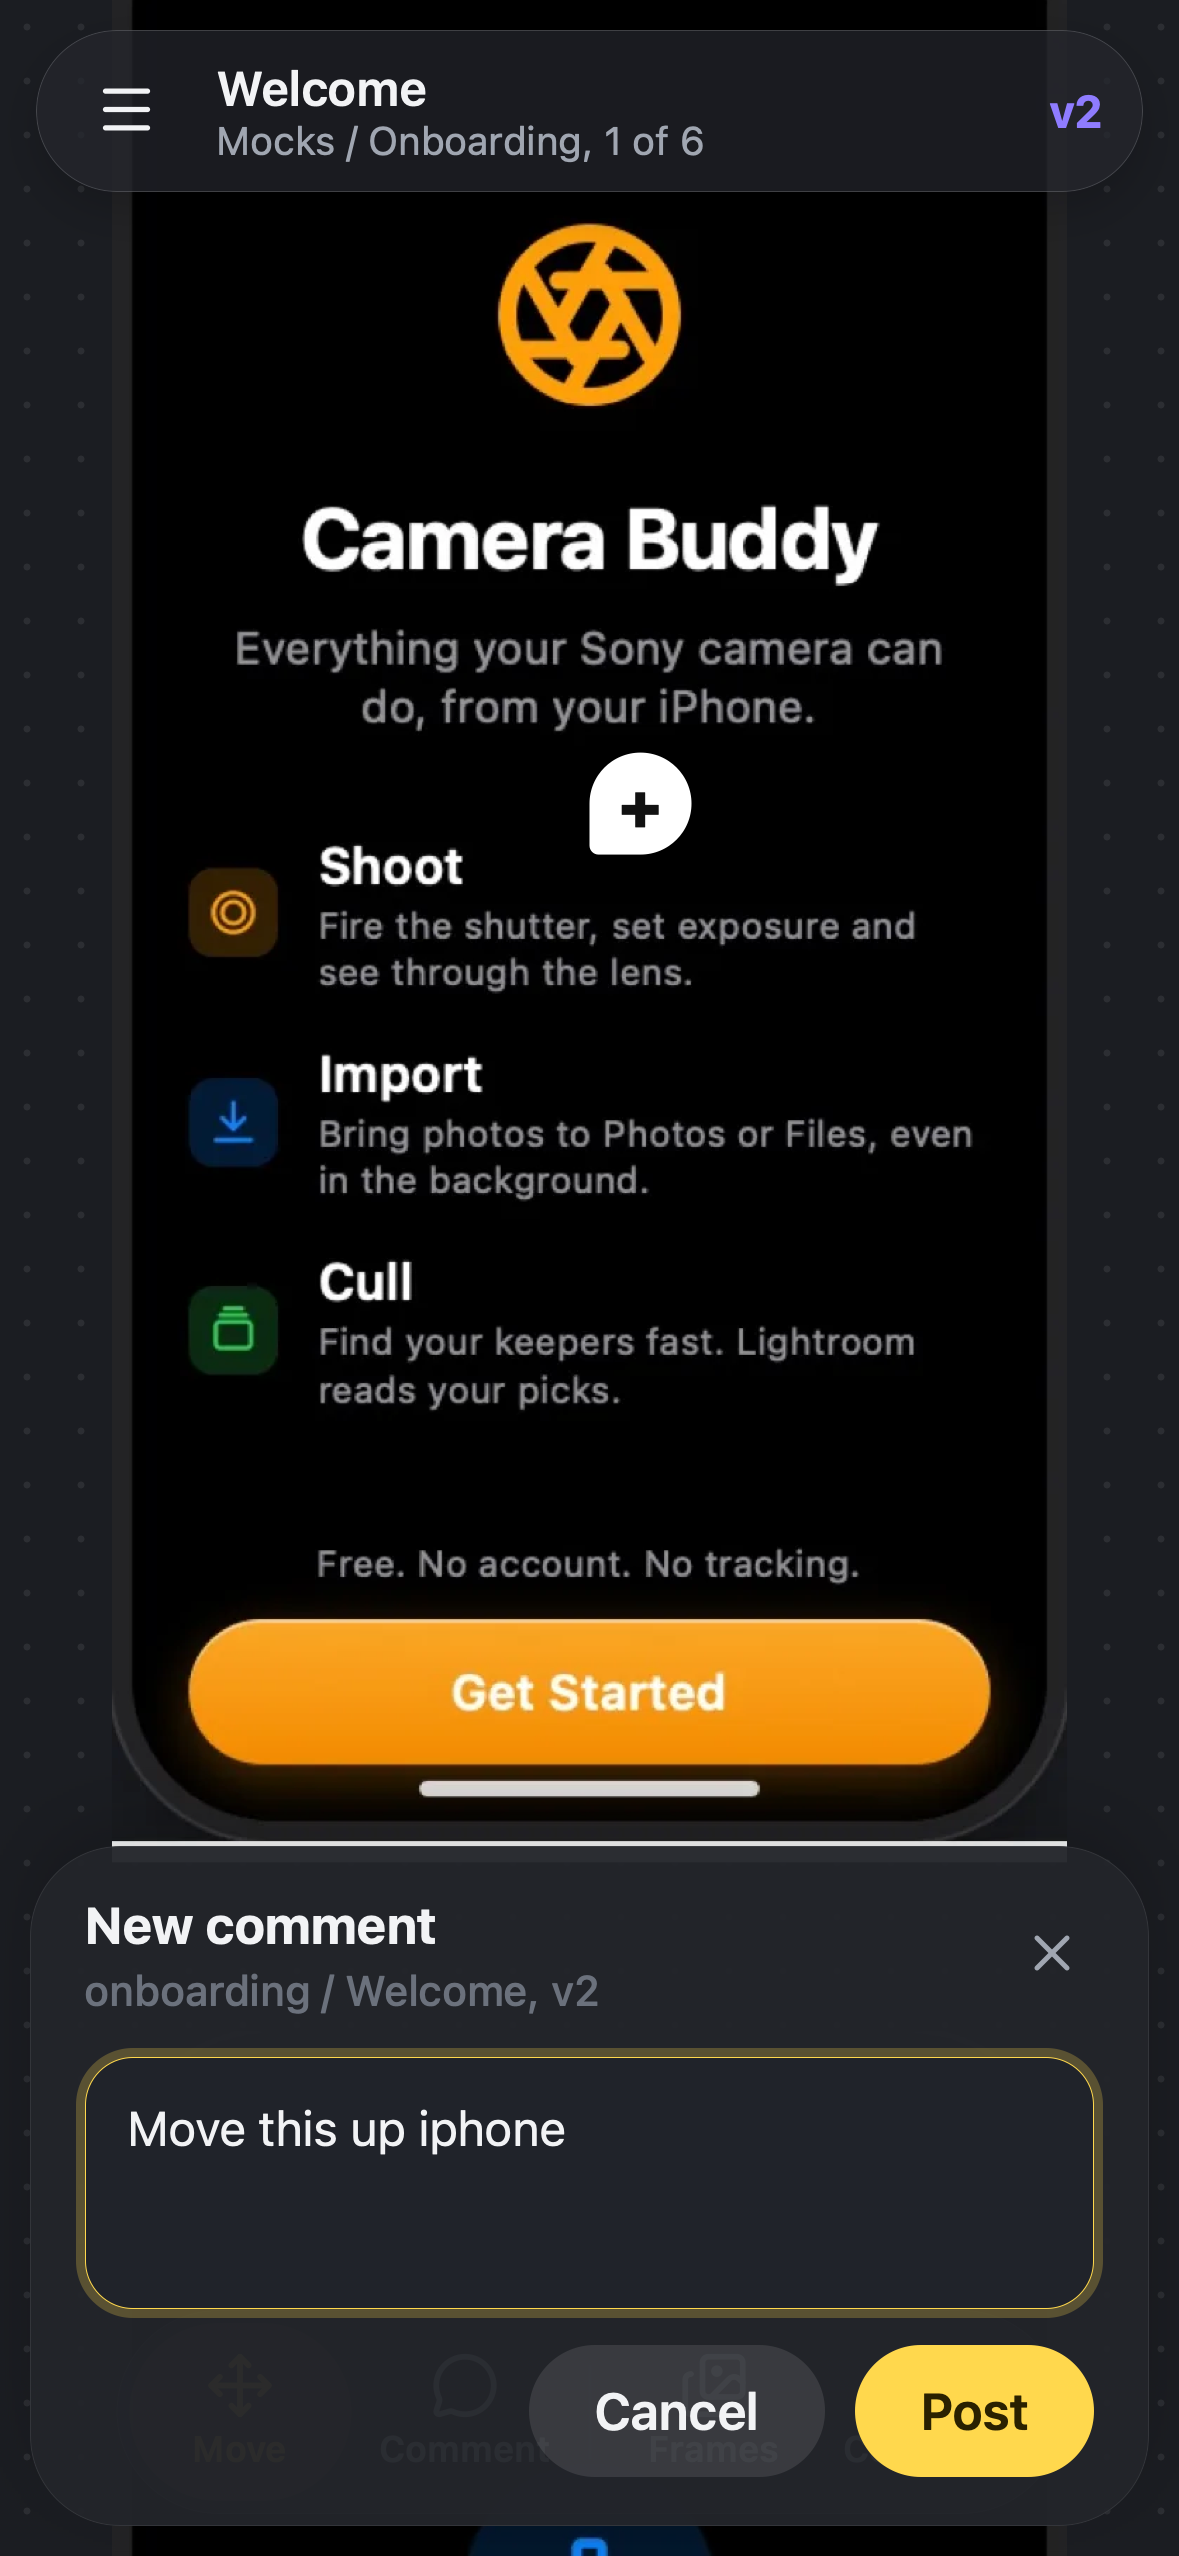
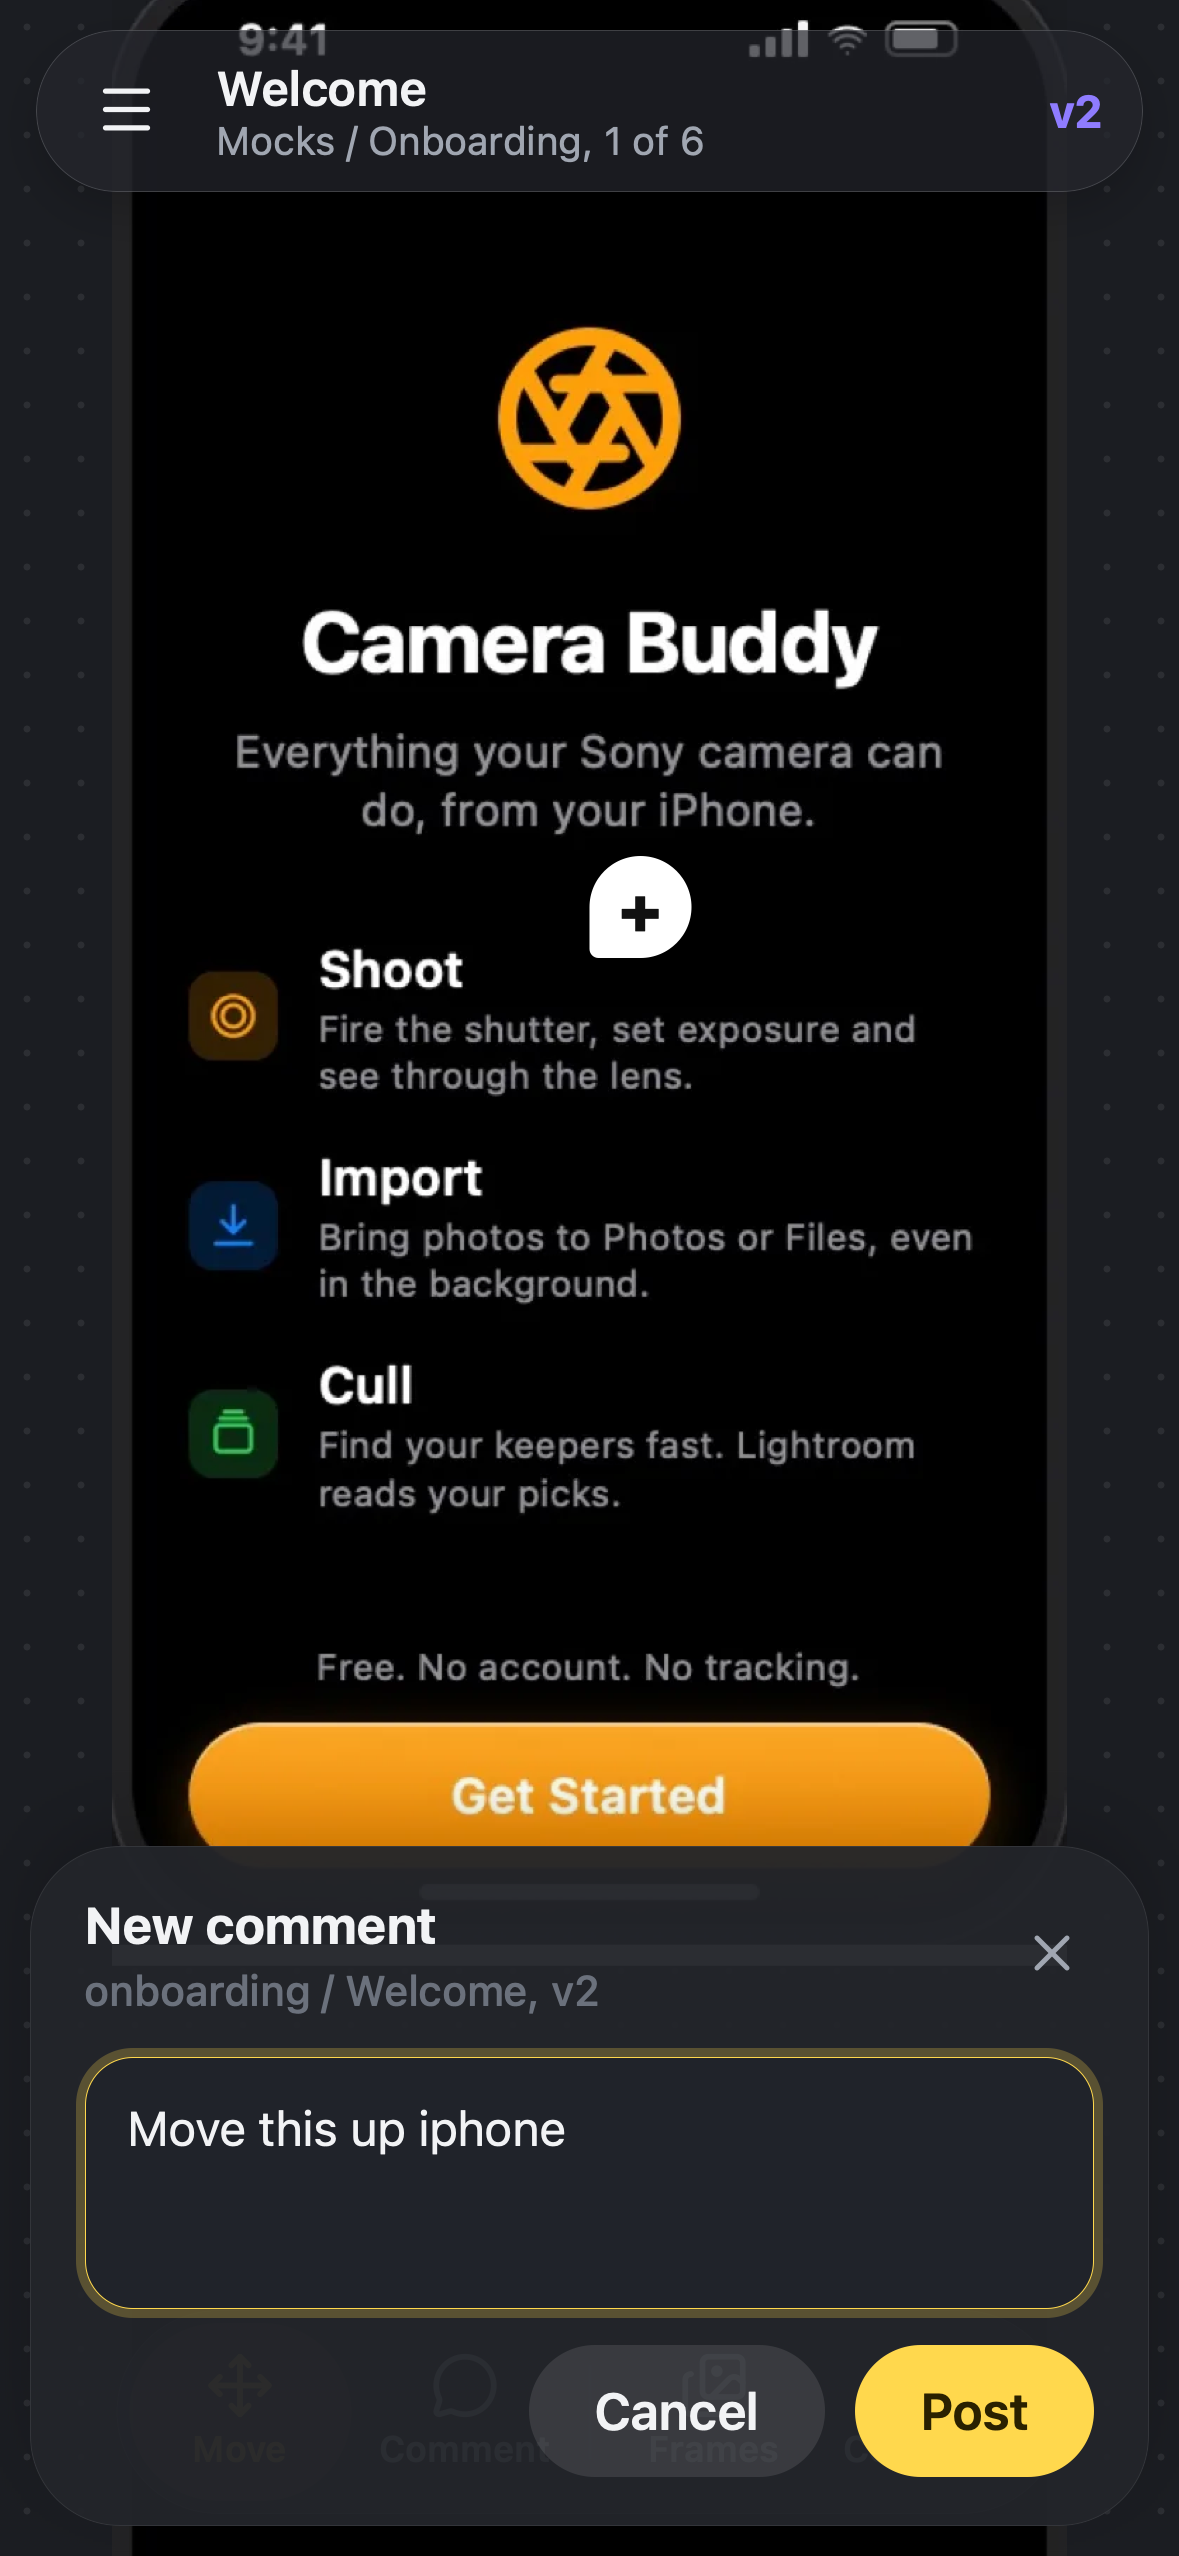
Keep sheets on the keyboard and fix their layout and colours

diff --git a/apps/viewer/src/styles/kit.css b/apps/viewer/src/styles/kit.css
@@ -218,10 +218,10 @@
   position: fixed;
   left: 10px;
   right: 10px;
-  bottom: calc(env(safe-area-inset-bottom) + 10px);
+  bottom: var(--keyboard, calc(env(safe-area-inset-bottom) + 10px));
   max-width: 480px;
   margin: 0 auto;
-  max-height: calc(100dvh - 60px);
+  max-height: calc(100dvh - 60px - var(--keyboard, 0px));
   overflow: auto;
   z-index: 50;
   padding: 12px 22px 24px;
@@ -230,6 +230,9 @@
   flex-direction: column;
   gap: 14px;
   background: var(--sheet);
+  color: var(--tx);
+  backdrop-filter: blur(24px);
+  -webkit-backdrop-filter: blur(24px);
   border: 0.5px solid var(--sep);
   box-shadow: 0 -8px 30px rgba(0, 0, 0, 0.12);
 }
@@ -844,9 +847,6 @@
   width: 1px;
   background: var(--sep);
   margin: 14px 3px;
-}
-.sheet.top {
-  top: calc(env(safe-area-inset-top) + 60px);
 }
 .sheet .group {
   flex: none;

diff --git a/apps/viewer/e2e/review.e2e.ts b/apps/viewer/e2e/review.e2e.ts
@@ -76,8 +76,9 @@ test("the comment sheet sits on the keyboard, and a thread opens from ?c=", asyn
   await tapFrame(page);
   const sheet = page.getByRole("dialog", { name: "New comment" });
   await expect(sheet).toBeVisible();
-  const bottom = await sheet.evaluate((el) => el.getBoundingClientRect().bottom);
-  expect(bottom).toBeLessThanOrEqual(852 - 336);
+  await expect
+    .poll(() => sheet.evaluate((el) => el.getBoundingClientRect().bottom))
+    .toBeLessThanOrEqual(852 - 336);
   await sheet.getByRole("button", { name: "Close" }).click();
 });
 

diff --git a/apps/viewer/src/components/sheets.tsx b/apps/viewer/src/components/sheets.tsx
@@ -27,7 +27,7 @@ export function Sheet({
   return (
     <>
       <div class="dim" onClick={onClose} aria-hidden="true" />
-      <div class="sheet top" role="dialog" aria-label={title}>
+      <div class="sheet" role="dialog" aria-label={title}>
         <div class="grabber" />
         <div class="shead">
           <div class="t">{title}</div>

diff --git a/apps/viewer/src/components/review.tsx b/apps/viewer/src/components/review.tsx
@@ -158,6 +158,7 @@ export function ThreadSheet({
   threads: Remote<Thread[]>;
   onClose(): void;
 }) {
+  useKeyboardInset();
   const reply = useSignal("");
   const error = useSignal<string | null>(null);
   const canAct = artifact.permissions.comment;
